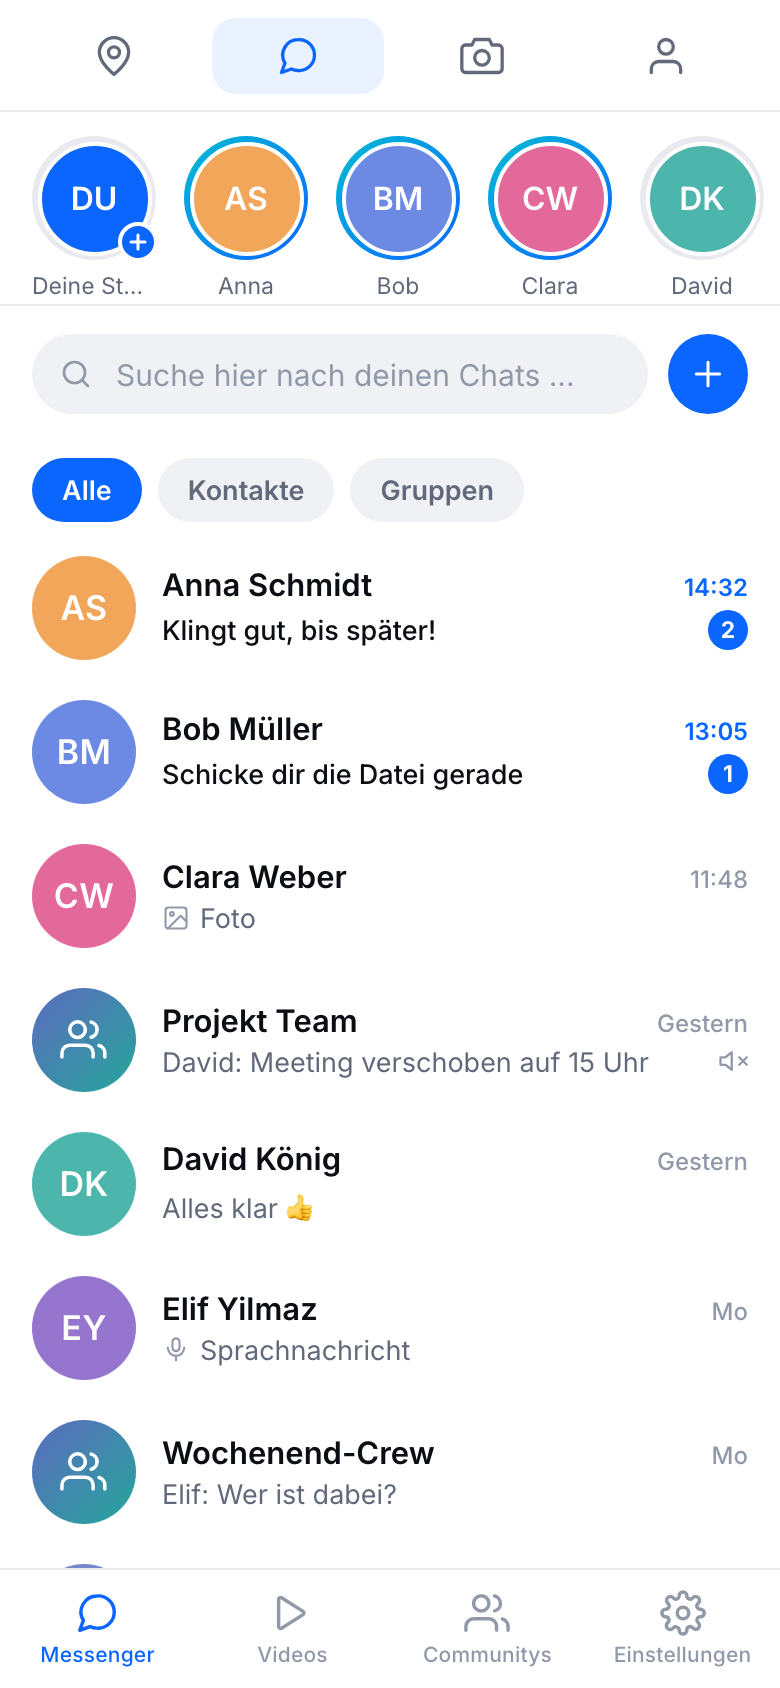
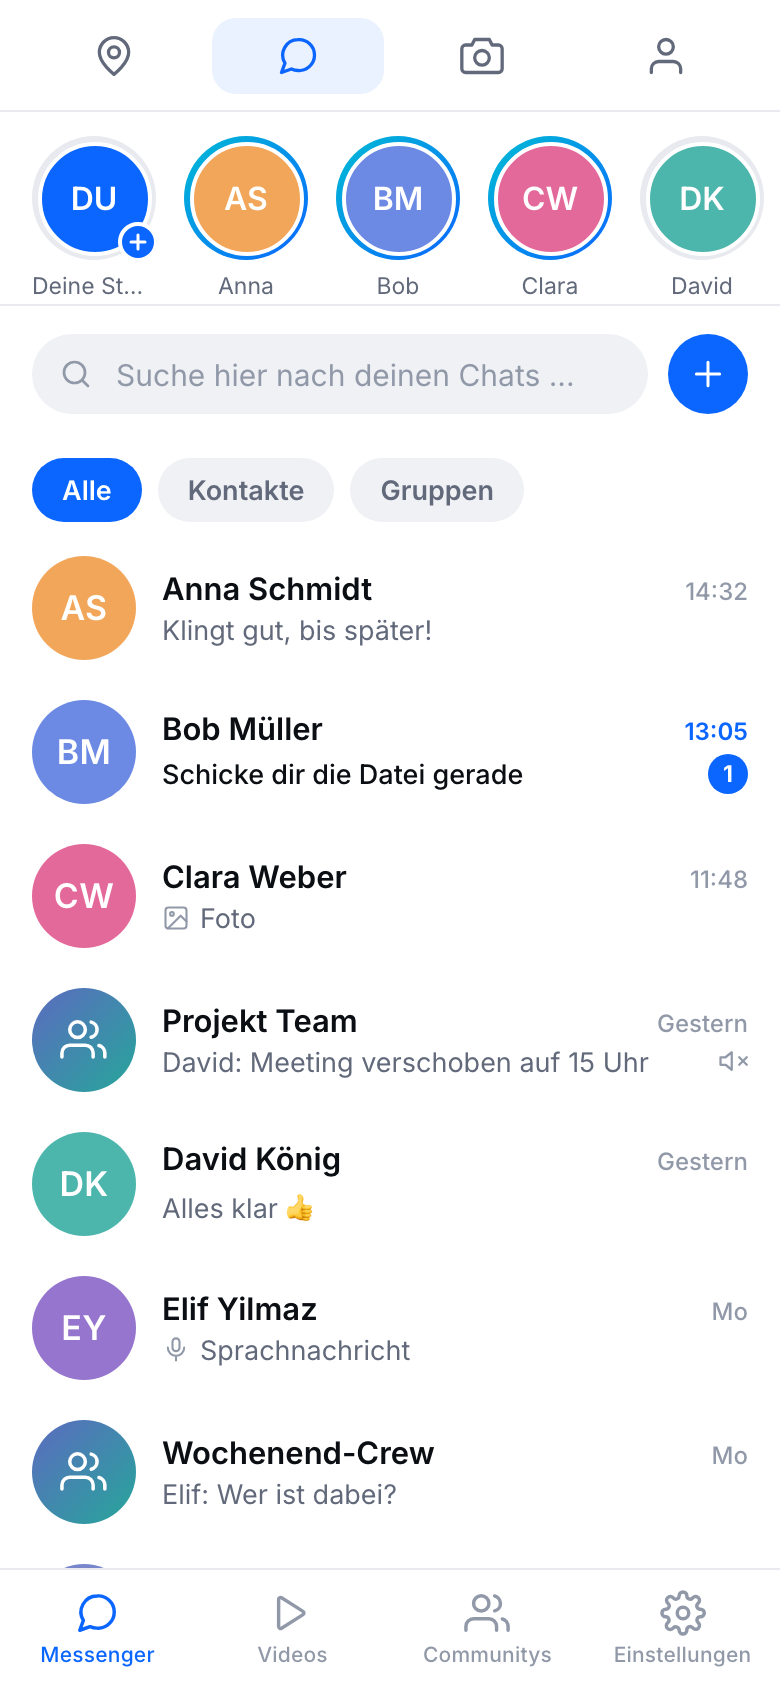
Start ohne ngrok: npm run wlan
Henrik moechte nicht mehr mit ngrok arbeiten. Fuer die Website ist das
ab jetzt erledigt - sie laeuft dauerhaft auf Render und braucht weder
Tunnel noch laufenden Mac.

Bleibt Expo Go: das braucht den Metro-Bundler von diesem Rechner, daran
aendert kein Hosting etwas. Ohne Tunnel geht es ueber das WLAN, wenn
Handy und Rechner im selben Netz haengen - dafuer gibt es kein Konto,
kein Limit und keine Sitzung, die sich verklemmen kann.

tools/lokal.js sucht die Netzwerkadresse selbst. Nicht jede
Schnittstelle taugt: lo0 ist der Rechner selbst, und macOS legt fuer
Docker und VPNs weitere an, die das Handy nicht erreicht. Gesucht wird
deshalb eine Adresse aus einem privaten Bereich, en0 (das WLAN am Mac)
zuerst.

REACT_NATIVE_PACKAGER_HOSTNAME ist dabei entscheidend: ohne die Angabe
haengt Metro "localhost" an die Paketadressen - und localhost ist auf
dem Handy das Handy selbst. Nachgeprueft: im Manifest steht die
WLAN-Adresse, nicht localhost.

"npm run up" bleibt als Rueckfallweg fuer den Fall, dass Handy und
Rechner mal nicht im selben Netz sind.

Geprueft: Manifest HTTP 200 ueber die WLAN-Adresse, Bundle laedt
(HTTP 200, 6,0 MB).

Changed region(s): [[0.2154, 0.3389, 0.5538, 0.4005], [0.8615, 0.3389, 0.9538, 0.4005]]

diff --git a/app/tools/lokal.js b/app/tools/lokal.js
@@ -1,0 +1,151 @@
+// Startet die App OHNE ngrok - ueber das eigene WLAN.
+//
+// Start:  npm run wlan
+//
+// Warum es diesen zweiten Weg gibt: "npm run up" spannt einen ngrok-Tunnel auf,
+// damit Handy und Rechner nicht im selben Netz sein muessen. Der Tunnel ist
+// aber die haeufigste Fehlerquelle - das gemeinsam genutzte Konto ist oft am
+// Limit, und eine uebrig gebliebene Sitzung blockiert die feste Adresse.
+//
+// Hier laeuft alles direkt ueber die Netzwerkadresse des Rechners
+// (192.168.x.x). Voraussetzung: Handy und Rechner haengen im selben WLAN.
+// Dafuer gibt es keinen Tunnel, kein Konto und kein Limit.
+//
+// Die Website braucht diesen Weg gar nicht mehr - sie laeuft dauerhaft unter
+// https://all-media-website.onrender.com. Dieses Skript ist nur noch fuer
+// Expo Go da, weil das den Metro-Bundler von diesem Rechner braucht.
+
+const fs = require('fs');
+const os = require('os');
+const path = require('path');
+const { spawn, execSync } = require('child_process');
+const qr = require('qrcode-terminal');
+
+const ROOT = path.join(__dirname, '..');
+const FEST = require('./adressen.json');
+const LOGDATEI = path.join(os.homedir(), 'Library', 'Logs', 'all-media.log');
+
+function log(zeile) {
+  const text = String(zeile) + '\n';
+  try { fs.appendFileSync(LOGDATEI, text); } catch { /* egal */ }
+  process.stdout.write(text);
+}
+
+/**
+ * Die Adresse dieses Rechners im WLAN.
+ *
+ * Nicht jede Schnittstelle taugt: "lo0" ist der Rechner selbst, und macOS
+ * legt fuer Docker und VPNs weitere an, die das Handy nicht erreicht. Ein
+ * privater Adressbereich (192.168.x, 10.x, 172.16-31.x) ist das Kennzeichen
+ * des Heimnetzes.
+ */
+function netzwerkAdresse() {
+  const kandidaten = [];
+  for (const [name, adressen] of Object.entries(os.networkInterfaces())) {
+    for (const a of adressen || []) {
+      if (a.family !== 'IPv4' || a.internal) continue;
+      const privat =
+        a.address.startsWith('192.168.') ||
+        a.address.startsWith('10.') ||
+        /^172\.(1[6-9]|2\d|3[01])\./.test(a.address);
+      if (!privat) continue;
+      // en0 ist am Mac das WLAN - die kommt zuerst.
+      kandidaten.push({ name, adresse: a.address, rang: name === 'en0' ? 0 : 1 });
+    }
+  }
+  kandidaten.sort((a, b) => a.rang - b.rang);
+  return kandidaten[0] || null;
+}
+
+function aufraeumen() {
+  for (const muster of ['ngrok', 'expo start', 'web-app.js']) {
+    try { execSync(`pkill -f "${muster}"`, { stdio: 'ignore' }); } catch { /* lief nicht */ }
+  }
+  for (const port of [FEST.webPort, FEST.expoPort]) {
+    try {
+      const pids = execSync(`lsof -ti tcp:${port}`, { stdio: ['ignore', 'pipe', 'ignore'] })
+        .toString().trim().split('\n').filter(Boolean);
+      for (const pid of pids) process.kill(Number(pid), 'SIGKILL');
+    } catch { /* Port war frei */ }
+  }
+}
+
+function kindLog() { try { return fs.openSync(LOGDATEI, 'a'); } catch { return 'ignore'; } }
+
+let beenden = false;
+const kinder = [];
+
+function starte(name, befehl, argumente, zusatzUmgebung) {
+  const kind = spawn(befehl, argumente, {
+    cwd: ROOT,
+    stdio: ['ignore', kindLog(), kindLog()],
+    env: { ...process.env, ...zusatzUmgebung },
+  });
+  kind.on('error', (e) => log(`  [${name}] START FEHLGESCHLAGEN: ${e.message}`));
+  kind.on('exit', (code) => { if (!beenden) log(`  [${name}] beendet (Code ${code})`); });
+  kinder.push(kind);
+}
+
+async function erreichbar(url, kopfzeilen) {
+  try {
+    const res = await fetch(url, { headers: kopfzeilen, signal: AbortSignal.timeout(8000) });
+    return res.status;
+  } catch {
+    return null;
+  }
+}
+
+async function ausgeben(netz) {
+  const webAdresse = `http://${netz.adresse}:${FEST.webPort}`;
+  const expoAdresse = `exp://${netz.adresse}:${FEST.expoPort}`;
+
+  let manifest = null;
+  for (let versuch = 0; versuch < 20; versuch++) {
+    await new Promise((r) => setTimeout(r, 3000));
+    manifest = await erreichbar(`http://${netz.adresse}:${FEST.expoPort}`, {
+      'expo-platform': 'ios',
+      accept: 'application/expo+json,application/json',
+    });
+    if (manifest === 200) break;
+  }
+
+  log('');
+  log('  ── Ohne Tunnel, ueber das WLAN ─────────────────────');
+  log(`  Schnittstelle : ${netz.name} (${netz.adresse})`);
+  log('');
+  log(`  Expo Go  : ${expoAdresse}${manifest === 200 ? '' : '   (NICHT erreichbar)'}`);
+  log(`  Website  : ${webAdresse}   (lokal - dauerhaft: https://all-media-website.onrender.com)`);
+  log('');
+  log('  Handy und Rechner muessen im selben WLAN sein.');
+  log('');
+  qr.generate(expoAdresse, { small: true }, (code) => log(code));
+}
+
+log('');
+const netz = netzwerkAdresse();
+if (!netz) {
+  log('  Keine WLAN-Adresse gefunden - ist der Rechner mit einem Netz verbunden?');
+  log('  Solange das nicht geht, hilft "npm run up" (mit Tunnel).');
+  log('');
+  process.exit(1);
+}
+
+log('  Alte Prozesse werden aufgeraeumt ...');
+aufraeumen();
+
+starte('web', process.execPath, ['web-app.js']);
+starte('expo', 'npx', ['expo', 'start', '--port', String(FEST.expoPort), '--lan'], {
+  // Metro muss wissen, unter welcher Adresse es fuer das Handy erreichbar ist.
+  // Ohne das haengt es "localhost" an die Paketadressen - und localhost ist
+  // auf dem Handy das Handy selbst.
+  REACT_NATIVE_PACKAGER_HOSTNAME: netz.adresse,
+});
+
+ausgeben(netz);
+
+process.on('SIGINT', () => {
+  beenden = true;
+  for (const kind of kinder) { try { kind.kill('SIGTERM'); } catch { /* schon weg */ } }
+  log('\n  Beendet.\n');
+  process.exit(0);
+});
